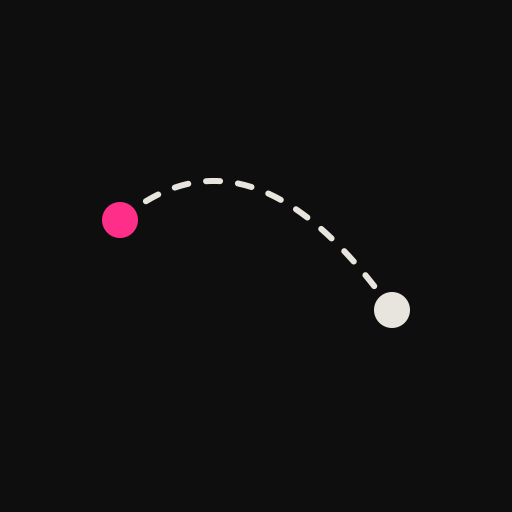
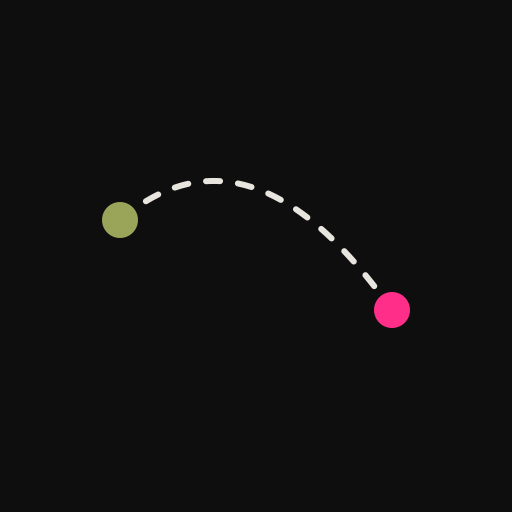
Njegov grad maslinast, njen neon roze; pretraga gradova na srpskom

Changed region(s): [[0.7188, 0.5625, 0.8125, 0.6562], [0.1875, 0.375, 0.2812, 0.4688]]

diff --git a/app.js b/app.js
@@ -270,23 +270,23 @@
     svg.setAttribute("viewBox", `${cx - w / 2} ${cy - h / 2} ${w} ${h}`);
     const px = w / W; // koliko jedinica karte je jedan piksel
 
-    const tacka = (g, boja) => { const [x, y] = pr([g.lon, g.lat]); return `<circle cx="${x}" cy="${y}" r="${4.5 * px}" fill="${boja}"/>`; };
-    const on = [a, b].find((g) => g.ko === PODACI.ime);
-    const ona = [a, b].find((g) => g !== on);
-    const [ox, oy] = on ? pr([on.lon, on.lat]) : [0, 0];
+    const tacka = (g, klasa) => { const [x, y] = pr([g.lon, g.lat]); return `<circle class="${klasa}" cx="${x}" cy="${y}" r="${4.5 * px}"/>`; };
+    // Njegov grad je onaj sa njegovim imenom, inače prvi
+    const on = [a, b].find((g) => g.ko === PODACI.ime) || a;
+    const ona = on === a ? b : a;
+    const [ox, oy] = pr([on.lon, on.lat]);
     const obim = 2 * Math.PI * 13 * px;
 
     svg.innerHTML = `
       ${typeof KOPNO === "string" ? `<path class="kopno" transform="scale(${k} 1)" d="${KOPNO}"/>` : ""}
       <path class="ruta ruta-anim" d="M${ruta.map((p) => p.join(",")).join("L")}"/>
-      ${tacka(ona, "#E8E4DE")}
-      ${on ? `
-        ${tacka(on, "#FF2E88")}
-        <circle class="hold-ring" id="hold-ring" cx="${ox}" cy="${oy}" r="${13 * px}" stroke-width="${2 * px}"
-          stroke-dasharray="${obim}" stroke-dashoffset="${obim}" transform="rotate(-90 ${ox} ${oy})"/>
-        <circle id="hold-hit" cx="${ox}" cy="${oy}" r="${26 * px}" fill="transparent" style="touch-action:none"/>` : ""}`;
+      ${tacka(ona, "tacka-ona")}
+      ${tacka(on, "tacka-on")}
+      <circle class="hold-ring" id="hold-ring" cx="${ox}" cy="${oy}" r="${13 * px}" stroke-width="${2 * px}"
+        stroke-dasharray="${obim}" stroke-dashoffset="${obim}" transform="rotate(-90 ${ox} ${oy})"/>
+      <circle id="hold-hit" cx="${ox}" cy="${oy}" r="${26 * px}" fill="transparent" style="touch-action:none"/>`;
 
-    if (on) podesiDugoDrzanje(obim);
+    podesiDugoDrzanje(obim);
   }
 
   // Dugo držanje (1,2 s) na njegovoj tački
@@ -319,13 +319,36 @@
     return c === c.toLowerCase() ? l : l.charAt(0).toUpperCase() + l.slice(1);
   });
 
+  // Pretraga zna srpska imena (Pariz, Beč, Njujork) samo na ćirilici, pa tražimo oba
+  const LAT = { a: "а", b: "б", v: "в", g: "г", d: "д", đ: "ђ", e: "е", ž: "ж", z: "з", i: "и", j: "ј", k: "к", l: "л",
+    m: "м", n: "н", o: "о", p: "п", r: "р", s: "с", t: "т", ć: "ћ", u: "у", f: "ф", h: "х", c: "ц", č: "ч", š: "ш" };
+  const cirilica = (s) => s
+    .replace(/dž|lj|nj/gi, (d) => {
+      const c = { dž: "џ", lj: "љ", nj: "њ" }[d.toLowerCase()];
+      return d[0] === d[0].toLowerCase() ? c : c.toUpperCase();
+    })
+    .replace(/[a-zđžćčš]/gi, (c) => {
+      const l = LAT[c.toLowerCase()];
+      if (!l) return c;
+      return c === c.toLowerCase() ? l : l.toUpperCase();
+    });
+
+  async function trazi(q) {
+    const upiti = [...new Set([q, cirilica(q)])].map((u) =>
+      fetch(`https://geocoding-api.open-meteo.com/v1/search?name=${encodeURIComponent(u)}&count=8&language=sr&format=json`)
+        .then((r) => r.json()).then((j) => j.results || []));
+    const svi = (await Promise.all(upiti)).flat();
+    const jedinstveni = [...new Map(svi.map((g) => [g.id, g])).values()];
+    return jedinstveni.sort((a, b) => (b.population || 0) - (a.population || 0)).slice(0, 6);
+  }
+
   function podesiGradove() {
     const sheet = $("sheet"), inp = $("sheet-input"), lista = $("sheet-results");
     let izabrani = [], tajmer = null, rezultati = [];
 
     const otvori = () => {
       izabrani = [];
-      $("sheet-step").textContent = "prvi grad";
+      $("sheet-step").textContent = "njegov grad";
       inp.value = ""; lista.innerHTML = "";
       sheet.hidden = false;
       setTimeout(() => inp.focus(), 50);
@@ -343,10 +366,9 @@
       if (q.length < 2) { lista.innerHTML = ""; return; }
       tajmer = setTimeout(async () => {
         try {
-          const r = await fetch(`https://geocoding-api.open-meteo.com/v1/search?name=${encodeURIComponent(q)}&count=6&language=sr&format=json`);
-          const j = await r.json();
+          const nadjeni = await trazi(q);
           if (inp.value.trim() !== q) return;
-          rezultati = j.results || [];
+          rezultati = nadjeni;
           lista.innerHTML = rezultati.length
             ? rezultati.map((g, i) => `<li data-i="${i}">${esc(latinica(g.name))}<span>${esc(latinica(g.country || ""))}</span></li>`).join("")
             : `<li><span>nema rezultata</span></li>`;
@@ -360,13 +382,15 @@
       const li = e.target.closest("li[data-i]");
       if (!li) return;
       const g = rezultati[+li.dataset.i];
-      izabrani.push({ ime: latinica(g.name), lat: g.latitude, lon: g.longitude, tz: g.timezone, ko: "" });
+      // Prvi izabrani je njegov grad, drugi njen
+      const ko = izabrani.length ? "ti" : PODACI.ime;
+      izabrani.push({ ime: latinica(g.name), lat: g.latitude, lon: g.longitude, tz: g.timezone, ko });
       if (izabrani.length === 2) {
         store.set("gradovi", izabrani);
         zatvori();
         osveziDaljinu();
       } else {
-        $("sheet-step").textContent = "drugi grad";
+        $("sheet-step").textContent = "moj grad";
         inp.value = ""; lista.innerHTML = "";
         inp.focus();
       }

diff --git a/styles.css b/styles.css
@@ -5,6 +5,7 @@
   --beton: #8A8784;
   --kost: #E8E4DE;
   --neon: #FF2E88;
+  --maslina: #9AA55A;
   --wa-bg: #2A2526;
   --wa-balon: #222524;
   --font: "Space Grotesk", -apple-system, sans-serif;
@@ -85,7 +86,9 @@ button { font: inherit; color: inherit; background: none; border: 0; cursor: poi
 #cities-edit { margin-top: auto; }
 
 /* Tačka za dugo držanje */
-.hold-ring { fill: none; stroke: var(--neon); }
+#map .tacka-on { fill: var(--maslina); }
+#map .tacka-ona { fill: var(--neon); }
+.hold-ring { fill: none; stroke: var(--maslina); }
 
 /* Dobro jutro */
 #p-gm { justify-content: flex-start; }

diff --git a/data.js b/data.js
@@ -11,9 +11,10 @@ const PODACI = {
   sledeceVidjenje: "2026-10-18T21:00:00+02:00",
   odbrojavanjeOd: "2026-10-11T18:00:00+02:00",
 
+  // Prvi je uvek njegov grad (maslinasta tačka), drugi njen (neon roze).
   gradovi: [
-    { ime: "Beograd", lat: 44.8125, lon: 20.4612, tz: "Europe/Belgrade", ko: "ti" },
     { ime: "Dablin", lat: 53.3498, lon: -6.2603, tz: "Europe/Dublin", ko: "Mihailo" },
+    { ime: "Beograd", lat: 44.8125, lon: 20.4612, tz: "Europe/Belgrade", ko: "ti" },
   ],
 
   // Tvoje poruke, tačno kako si ih napisao. Gde se završava samo srcima, aplikacija sama menja broj srca (1–3).
